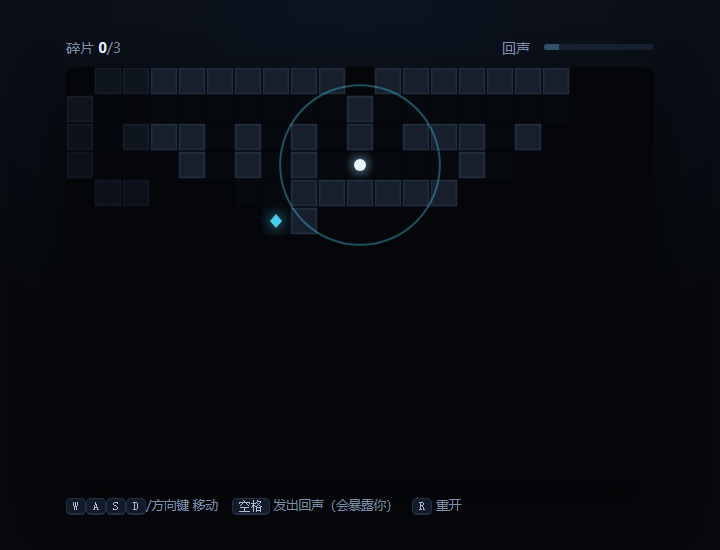
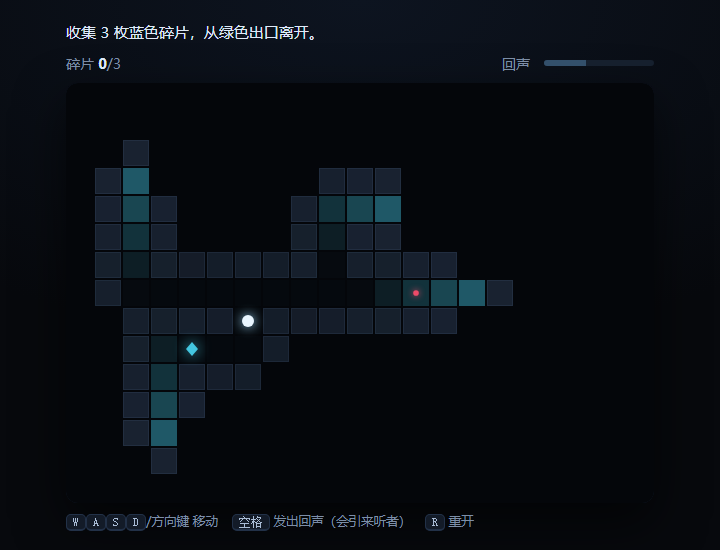
更新首局实况截图与回声玩法说明

diff --git a/echo/README.md b/echo/README.md
@@ -1,8 +1,6 @@
 # 回声 · Echo
 
-一个用键盘玩的单人迷宫游戏。双击同目录的 `index.html` 即可离线游玩，也可以从下方打开网页版。
-
-[开始游戏](https://mark00327.github.io/git/echo/)
+一个用键盘玩的单人迷宫游戏。下载项目后，双击本目录的 `index.html` 即可离线游玩。音效也由浏览器在本地生成。
 
 ## 想做什么
 
@@ -10,15 +8,17 @@
 
 ## 做了什么
 
-每局随机生成一张迷宫。白点是玩家，用方向键或 WASD 移动。收集三个青色菱形碎片，再走进绿色方框出口即可通关。按 R 可以重新生成地图。
+白点是玩家，用方向键或 WASD 移动。收集三个蓝色菱形碎片，再走进绿色方框出口即可通关。每次打开页面，首局都会从同一个岔路开始。按 R 可以重开，之后的迷宫随机生成。
 
-按空格发出回声，可以照亮沿通道九步以内的区域。光会在约 2.6 秒内淡去，右上角的回声条约 1.8 秒后充满。红点是听者，会向发声位置靠近。你可以在岔路口发声，然后换条路走。
+按空格会响起一短一弱两声回响。蓝光每 90 毫秒沿通道前进一格，最远照出九步内的区域。每格的光从抵达时开始，在约 2.6 秒内淡去。右上角的回声条约 1.8 秒后充满。
 
-![游戏实况：白点发出回声，左下方的通道显出一枚青色碎片](docs/echo-gameplay.png)
+首局可以在起点发声，向下走两格再左转去拿第一枚碎片。留意右侧的红点：听者会走到原来的发声格，短暂停留。玩家和听者只要进入同一格，就会立即结束本局。
+
+![首局实况：白点离开发声的岔路，左下角的碎片和右侧的听者被回声照亮](docs/echo-gameplay.png)
 
 ## 遇到的问题与处理方式
 
-- **隔墙的格子看起来很近，实际要绕远。** 游戏从玩家脚下沿可走的通道逐格搜索，只照亮范围内的通道和相邻墙面。这样即使碎片就在墙后，也可能需要从另一个入口接近才能探到。
+- **旧版回声一发出就点亮了远处的格子。** 现在按通道的最短步数给格子分组，波头每前进一步才显示下一组。隔墙的碎片会等到声波绕过拐角才显形。
 - **地图一直亮着，玩家就不用记路。** 每次探路都记录格子最近一次显形的时间，再按经过时间降低亮度。走过的岔路会逐渐变暗，玩家要决定是否值得再次发声。
 
-目前仍有一个已复现的碰撞边界情况：玩家主动走上听者所在的格子时，如果听者下一步离开，有可能逃过判负。
+- **玩家主动走进听者时，旧版有时允许擦身而过。** 现在双方每次移动后都立即检查是否同格。已验证两个方向的碰撞，并确认同格判负优先于捡碎片和通关。
